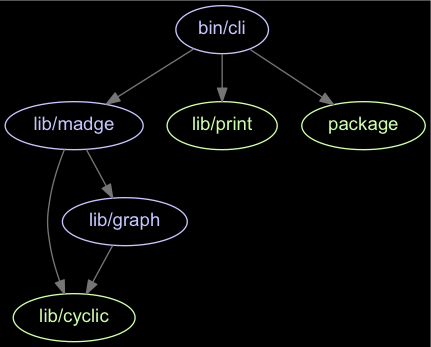
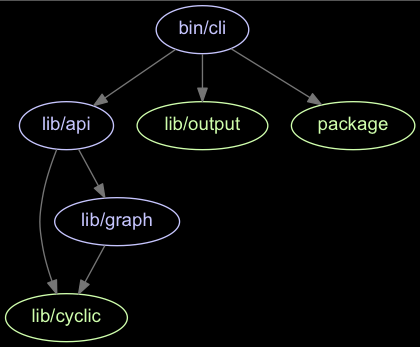
Rename files in /lib

diff --git a/bin/cli.js b/bin/cli.js
@@ -2,12 +2,12 @@
 'use strict';
 
 const fs = require('fs');
-const version = require('../package.json').version;
 const program = require('commander');
-const printResult = require('../lib/print');
-const madge = require('../lib/madge');
 const rc = require('rc')('madge');
 const debug = require('debug')('madge');
+const version = require('../package.json').version;
+const output = require('../lib/output');
+const madge = require('../lib/api');
 
 program
 	.version(version)
@@ -58,14 +58,14 @@ if (!program.color) {
 madge(program.args[0], config)
 	.then((res) => {
 		if (program.list || (!program.summary && !program.circular && !program.depends && !program.image && !program.dot && !program.json)) {
-			printResult.list(res.obj(), {
+			output.list(res.obj(), {
 				colors: program.color,
 				output: program.output
 			});
 		}
 
 		if (program.summary) {
-			printResult.summary(res.obj(), {
+			output.summary(res.obj(), {
 				colors: program.color,
 				output: program.output
 			});
@@ -78,7 +78,7 @@ madge(program.args[0], config)
 		if (program.circular) {
 			const circular = res.circular();
 
-			printResult.circular(circular, {
+			output.circular(circular, {
 				colors: program.color,
 				output: program.output
 			});
@@ -89,7 +89,7 @@ madge(program.args[0], config)
 		}
 
 		if (program.depends) {
-			printResult.depends(res.depends(program.depends), {
+			output.depends(res.depends(program.depends), {
 				colors: program.color,
 				output: program.output
 			});
@@ -110,6 +110,9 @@ madge(program.args[0], config)
 		}
 	})
 	.catch((err) => {
-		console.log(err);
+		output.error(err, {
+			colors: program.color
+		});
+
 		process.exit(1);
 	});

diff --git a/lib/api.js b/lib/api.js
@@ -2,10 +2,10 @@
 
 const path = require('path');
 const fs = require('mz/fs');
+const debug = require('debug')('madge');
 const dependencyTree = require('dependency-tree');
 const cyclic = require('./cyclic');
 const graph = require('./graph');
-const debug = require('debug')('madge');
 
 const defaultConfig = {
 	showFileExtension: false,

diff --git a/lib/output.js b/lib/output.js
@@ -110,3 +110,13 @@ module.exports.depends = function (modules, opts) {
 		console.log(c(id, 'grey', opts.colors));
 	});
 };
+
+/**
+ * Print error to the console.
+ * @param  {Object} err
+ * @param  {Object} opts
+ * @return {undefined}
+ */
+module.exports.error = function (err, opts) {
+	console.log(c(err, 'red', opts.colors));
+};

diff --git a/test/cjs.js b/test/cjs.js
@@ -1,7 +1,7 @@
 /* eslint-env mocha */
 'use strict';
 
-const madge = require('../lib/madge');
+const madge = require('../lib/api');
 require('should');
 
 describe('CommonJS', () => {

diff --git a/test/api.js b/test/api.js
@@ -1,7 +1,7 @@
 /* eslint-env mocha */
 'use strict';
 
-const madge = require('../lib/madge');
+const madge = require('../lib/api');
 require('should');
 
 describe('Madge', () => {

diff --git a/test/amd.js b/test/amd.js
@@ -1,7 +1,7 @@
 /* eslint-env mocha */
 'use strict';
 
-const madge = require('../lib/madge');
+const madge = require('../lib/api');
 require('should');
 
 describe('AMD', () => {

diff --git a/test/es6.js b/test/es6.js
@@ -1,7 +1,7 @@
 /* eslint-env mocha */
 'use strict';
 
-const madge = require('../lib/madge');
+const madge = require('../lib/api');
 require('should');
 
 describe('ES6', () => {
